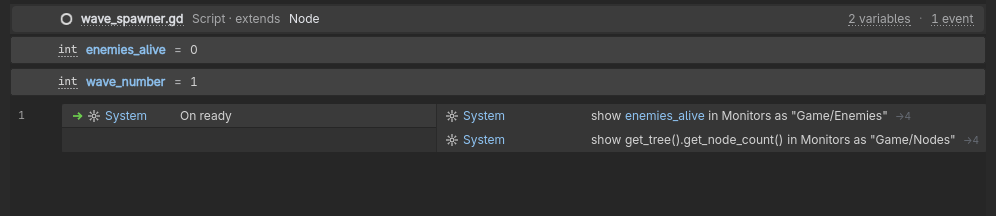
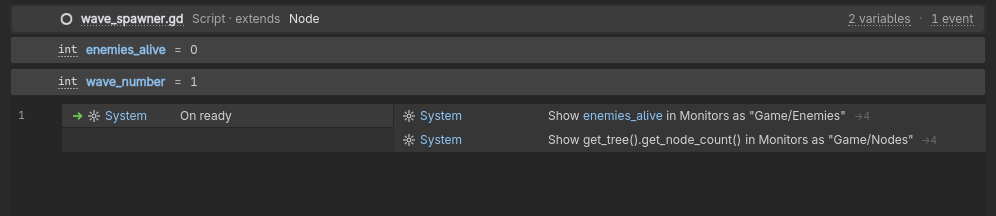
fix(vocabulary): the Show In Monitors and Remove From Monitors sentences start with a capital

Changed region(s): [[0.4046, 0.6111, 0.996, 0.6944], [0.4046, 0.5, 0.9337, 0.5556]]

diff --git a/CHANGELOG.md b/CHANGELOG.md
@@ -4,6 +4,10 @@ The work not yet released is listed first, under `[Unreleased]`. Each released v
 
 ## [Unreleased]
 
+### Fixed: the Monitors rows read as sentences
+
+Show In Monitors and Remove From Monitors now begin their sentence with a capital, like every other action ("Show enemies_alive in Monitors as ..."). Only the words on the row changed; their ids and the code they write are the same.
+
 ### Faster: the first sheet opened in a session no longer reads every scene in the project inside its own frames
 
 On a project of 10,000 files the first sheet opened in a session built two project-wide scene indexes on the main thread (which scenes load a script, 560 ms, and which script each scene's root carries, 570 ms), and three frames of 220 to 500 ms followed the open. The plugin now reads both once on a thread of its own a couple of seconds after the editor's first scan, and the first reader that asks takes the answer, or waits for the read in progress instead of making it twice. Any file change drops what it holds, and the readers then build as they always did. Measured over three runs at 10,000 files with the sheet's lift cache cleared, the worst frame of the first open went from 397 to 499 ms to 210 to 300 ms and the three late frames over 100 ms are gone; the answers are identical to the synchronous build over repeated runs, including when a scene is added and another edited while the read is under way. At 200 files the read takes about 220 ms on its thread and 0.1 ms on the main thread. The sweep of scene heads moved out of the row builder into its own small file, so the editor's first open compiles slightly fewer lines.
